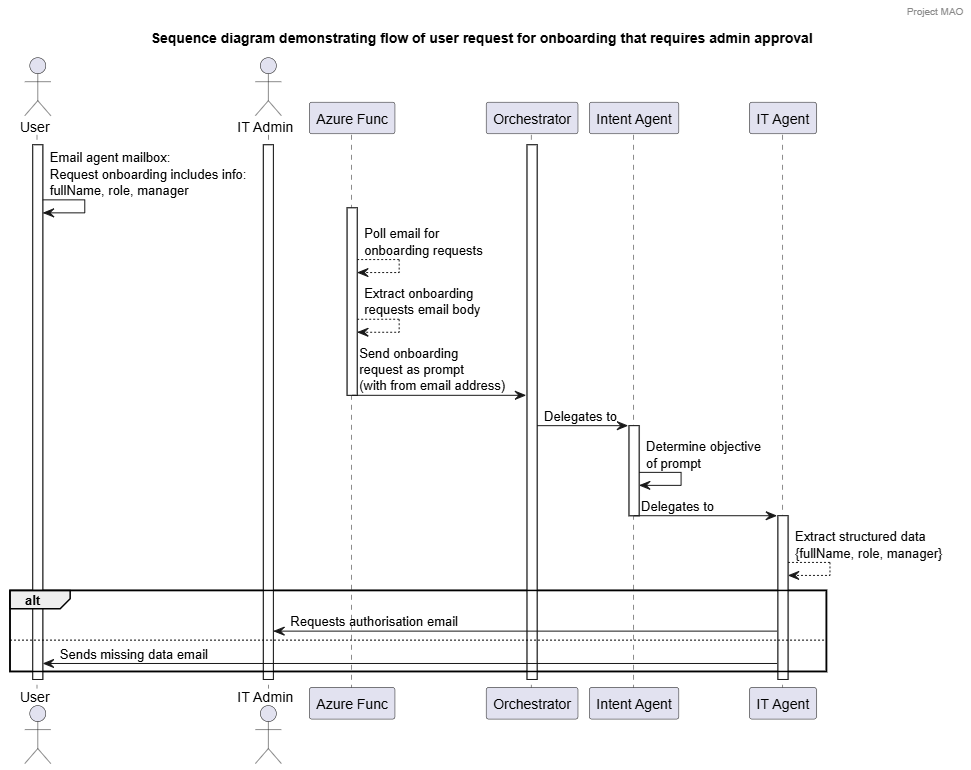
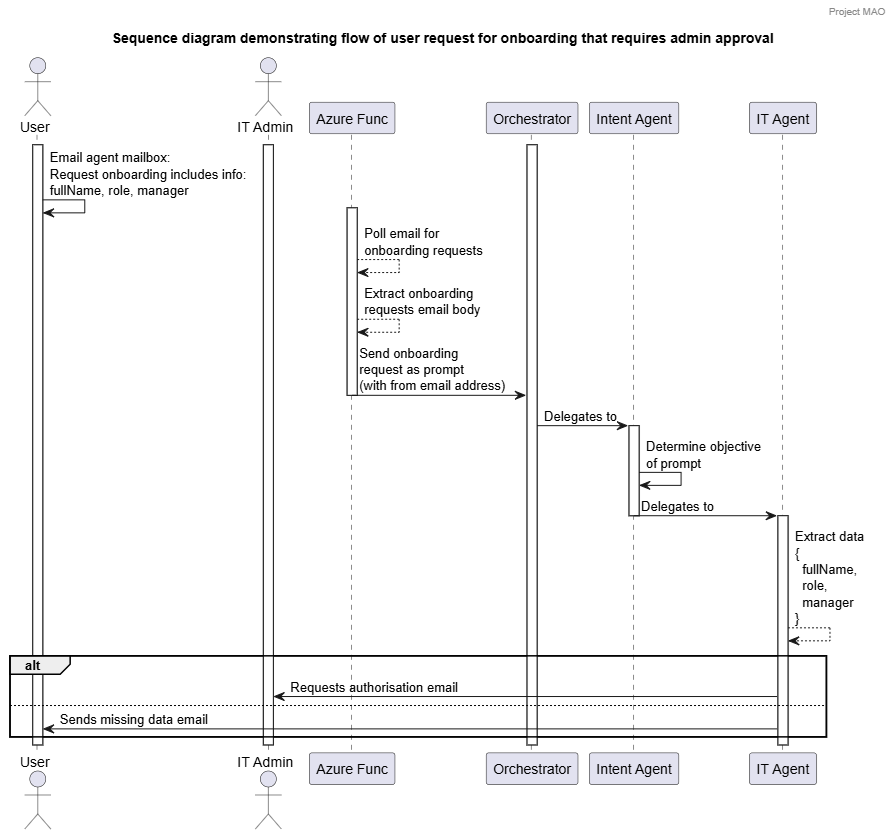
Update dates, add line breaks on diagram text

Changed region(s): [[0.0, 0.0312, 0.9675, 0.9974], [0.9373, 0.0, 0.9978, 0.0312], [0.8466, 0.5922, 0.8768, 0.6234]]

diff --git a/_posts/2026-03-06-microsoft-agent-framework-powering-up-your-agentic-teammate.md b/_posts/2026-03-06-microsoft-agent-framework-powering-up-your-agentic-teammate.md
@@ -1,6 +1,6 @@
 ---
 title: Microsoft Agent Framework - powering up your agentic teammate
-date: 2026-03-05 11:00:00 Z
+date: 2026-03-06 10:00:00 Z
 categories:
 - Artificial Intelligence
 tags:
